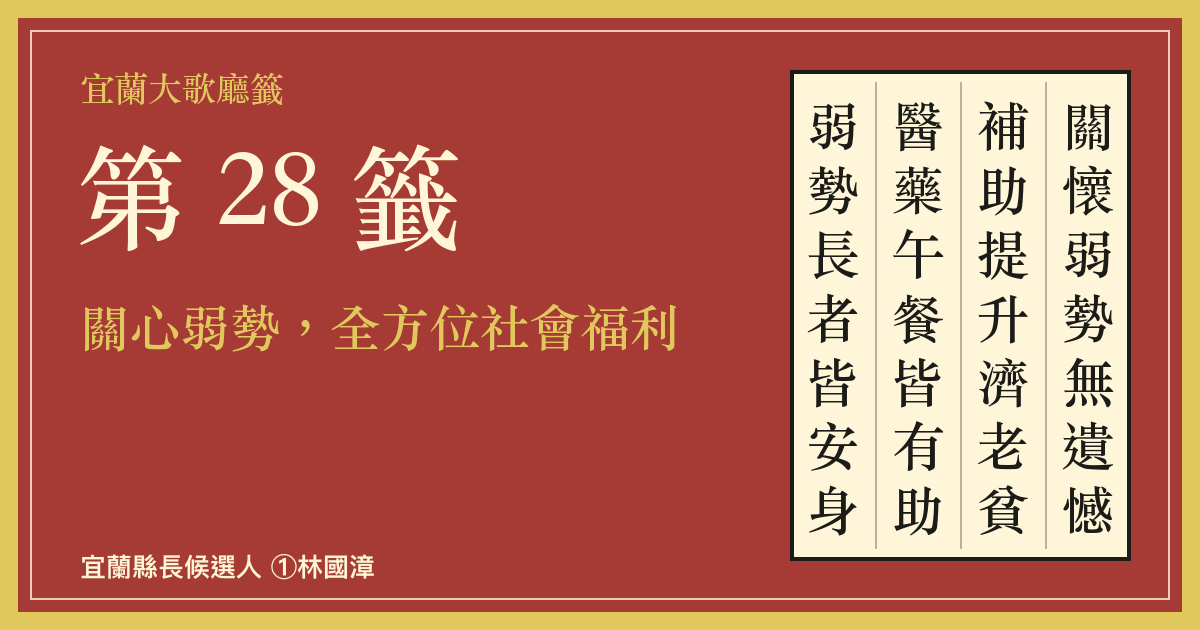
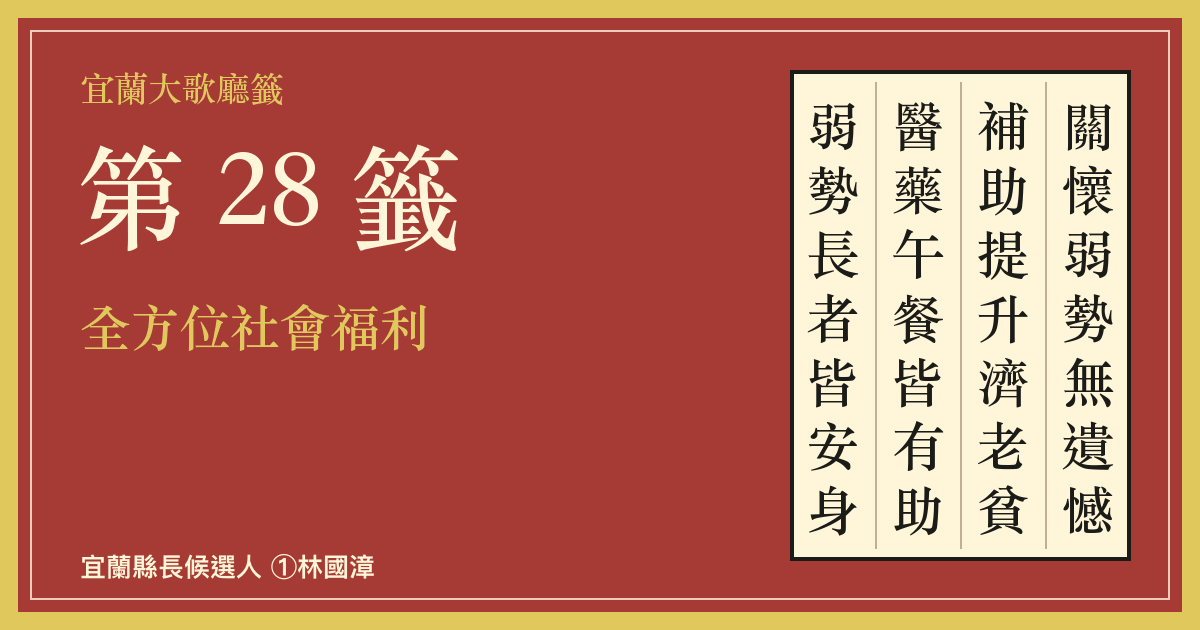
v198：點歌本再調整（刪創業專輯、觀光改名等）、短影音新增 2 支並更新觀看數

Changed region(s): [[0.0617, 0.4825, 0.5858, 0.573]]

diff --git a/index.html b/index.html
@@ -2192,7 +2192,7 @@ var POL=[
  b:["發行對象：縣內 65 歲以上長輩；每月匯入 1,000 點（全年 12,000 點），當月未用完可跨月累積、年度結算。", "三大用途：交通（維持縣內公車免費，並納入計程車、國道客運、台鐵折抵）、醫療保健（研議折抵醫療相關服務）、在地店家（縣府認證的合作店家）。", "創造宜蘭經濟內循環：照顧長輩的錢同時成為縣內店家的營業額。"],
  tw:'all',lt:['luodong'],rd:[],pl:[],src:[],
  src:[]},
-{id:'W02',c:'care',t:'關心弱勢，全方位社會福利',d:"2026/2/15 發布",
+{id:'W02',c:'care',t:'全方位社會福利',d:"2026/2/15 發布",
  s:'津貼升級、0–6 歲掛號費補助、帶狀疱疹疫苗，弱勢族群以及 55 歲以上原住民族健保全額免費。',
  b:["生育津貼每胎提高到 3 萬元（現行 2 萬）。", "補助 0–6 歲掛號費：一般門診 100 元、急診 200 元，每人每年最多 10 次。", "延續「呷飯免錢、讀書免錢」並提高品質：補助學校更新保溫設備，每校約 15 萬。", "帶狀疱疹疫苗：弱勢（低收、中低收、55 歲以上原住民）全額補助，設籍 65 歲以上長者補助 3,000 元，優先照顧慢性病等高風險族群。", "弱勢族群以及 55 歲以上原住民族健保全額免費。"],
  tw:'all',rd:[],pl:[],src:[],
@@ -2514,23 +2514,22 @@ function numSize(s,max,avail){var w=0;for(var i=0;i<s.length;i++)w+=s.charCodeAt
 
 var AUD=[
  {id:'a_baby',k:'age',n:'幼兒家庭（0–6 歲）',need:'孩子小時候常生病，掛號費一次次累積；0–2 歲公共托育只占同齡人口約 6%，公托候補名單常有兩位數；有 0–6 歲孩子的家庭，約 38% 最需要假日與夜間臨托。',pol:['W02','K02','K03']},
- {id:'a_student',k:'age',n:'國中小學生與家長',need:'偏鄉與無車家庭的上下學接送是難題。',pol:['K02','K03','G04','T04','C07']},
- {id:'a_youth',k:'age',n:'青年（約 18–39 歲）',need:'長期低薪、機會不足，青年人口向大台北外流；老屋比例高、購屋成家困難；創業資源分散。',pol:['K04','I01','I04','T04']},
- {id:'a_adult',k:'age',n:'壯年（約 40–64 歲）',need:'雪隧假日塞車、大眾運輸班次不足、停車位不足；薪資偏低、產業單一；極端降雨的淹水風險。',pol:['T01','T02','T04','T05','I05','I01','E02']},
+ {id:'a_student',k:'age',n:'國中小學生與家長',need:'偏鄉與無車家庭的上下學接送是難題。',pol:['K02','K03','G04','C07']},
+ {id:'a_youth',k:'age',n:'青年（約 18–39 歲）',need:'長期低薪、機會不足，青年人口向大台北外流；老屋比例高、購屋成家困難；創業資源分散。',pol:['K04','I01']},
+ {id:'a_adult',k:'age',n:'壯年（約 40–64 歲）',need:'雪隧假日塞車、大眾運輸班次不足、停車位不足；薪資偏低、產業單一；極端降雨的淹水風險。',pol:['I05','I01','E02']},
  {id:'a_senior',k:'age',n:'長者（65 歲以上）',need:'宜蘭已進入超高齡社會（65 歲以上超過兩成）；帶狀疱疹疫苗價格高。',pol:['W01','W02','C07','G04']},
  {id:'j_farmer',k:'job',n:'農民',need:'宜蘭稻作一年只收成一次，颱風來前常得搶收，稻穀品質下降還可能被折價；宜蘭在迎風面，天災常讓一年心血歸零。',pol:['A01','A02','E02','X13']},
  {id:'j_fisher',k:'job',n:'漁民',need:'漁民老化、老舊漁船難退場；漁港與養殖區設施需要升級；漁獲需要冷鏈與品牌才賣得出好價。',pol:['S01','S03','S04']},
  {id:'j_worker',k:'job',n:'勞工（含輪班、夜間）',need:'輪班、夜間、長工時的異常工作負荷容易引發疾病與職災；中高齡勞工需要職訓與再就業；基層薪資偏低。',pol:['I05']},
  {id:'j_teacher',k:'job',n:'教師與教保員',need:'行政與評鑑負擔重；學生突發情緒與校園安全需要標準流程；少子化下小校要轉型；教保員薪資約 3.5 萬、人手吃緊。',pol:['K03']},
- {id:'j_startup',k:'job',n:'創業者與青創',need:'創業資源分散、新型態商業模式（如社會企業）法規不明、青創商品缺乏品牌與穩定市場。',pol:['K04']},
- {id:'j_tour',k:'job',n:'旅宿、餐飲與觀光業',need:'旅客停留短、季節落差明顯；抵達後缺少交通接駁的「最後一哩路」；熱門地區假日塞車。',pol:['C01','C02','C08','S03','T02','T01','X13']},
- {id:'j_commuter',k:'job',n:'通勤族',need:'往返雙北的宜蘭通勤族要用兩張卡分別設定 TPASS；城際月票 1,800 元、縣內月票 750 元。',pol:['T04','T01','T02','T05','T07']},
+ {id:'j_tour',k:'job',n:'觀光',need:'旅客停留短、季節落差明顯；抵達後缺少交通接駁的「最後一哩路」；熱門地區假日塞車。',pol:['C01','C02','C08','S03','T02','T01','X13']},
+ {id:'j_commuter',k:'job',n:'通勤族',need:'往返雙北的宜蘭通勤族要用兩張卡分別設定 TPASS；城際月票 1,800 元、縣內月票 750 元。',pol:['T04','T01','T03','T02','T05','T07']},
  {id:'j_sports',k:'job',n:'運動員、教練與體育界',need:'多數學生缺少接觸多元運動的機會；雨天缺運動場域；選手與教練需要穩定的獎勵與培訓資源。',pol:['C07','S03']},
  {id:'j_culture',k:'job',n:'藝文與文化工作者',need:'文化場館多半只是展示、使用有限；節慶與歌仔戲等無形文化資產需要被保存傳承。',pol:['C03','C05']},
  {id:'j_indig',k:'job',n:'原住民族',need:'部落反映道路橋梁安全、治山防洪、農產運輸、高山農業灌溉；青年返鄉就業與長者醫療資源不足。',pol:['D01','W02']},
  {id:'j_hakka',k:'job',n:'客家族群',need:'客語（尤其詔安腔）師資與使用者逐漸流失。',pol:['C05']},
  {id:'j_newres',k:'job',n:'新住民',need:'需要進入決策、法律與財稅諮詢、子女助學與文化交流的支持。',pol:['N01']},
- {id:'j_women',k:'job',n:'女性與母親',need:'婦女調查中，最大的困擾是自身健康問題（41.6%）、薪資偏低（35.4%）；最需要免費婦女健檢（66.9%）與臨托服務。',pol:['K01','W02','I05']},
+ {id:'j_women',k:'job',n:'女性與母親',need:'婦女調查中，最大的困擾是自身健康問題（41.6%）、薪資偏低（35.4%）；最需要免費婦女健檢（66.9%）與臨托服務。',pol:['K01']},
  {id:'j_pet',k:'job',n:'毛孩飼主',need:'夜間獸醫量能不足，急診常得跑到台北。',pol:['K05']},
  {id:'j_shop',k:'job',n:'在地商家',need:'商家需要穩定客源；長輩的消費若留在縣內，才能拉動商圈與夜經濟。',pol:['W01','C01']}
 ];
@@ -2657,12 +2656,12 @@ function personaMatches(){
 }
 function townName(id){for(var i=0;i<TOWNS.length;i++)if(TOWNS[i].id===id)return TOWNS[i].n;return id}
 var AGRP=[['家庭與年齡',['a_baby','a_student','a_youth','a_adult','a_senior','j_pet']],
-  ['工作與通勤',['j_farmer','j_fisher','j_worker','j_teacher','j_startup','j_tour','j_shop','j_sports','j_culture','j_commuter']],
+  ['工作與通勤',['j_farmer','j_fisher','j_worker','j_teacher','j_tour','j_shop','j_sports','j_culture','j_commuter']],
   ['族群與性別',['j_indig','j_hakka','j_newres','j_women']]];
-var ASHORT={a_student:'學生與家長',j_startup:'創業與青創',j_tour:'旅宿餐飲觀光',j_sports:'運動與體育',j_culture:'藝文工作者',j_women:'女性'};
+var ASHORT={a_student:'學生與家長',j_tour:'觀光',j_sports:'運動與體育',j_culture:'藝文工作者',j_women:'女性'};
 var SBRK={'福山植物園':['福山','植物園'],'傳統藝術中心':['傳統藝術','中心'],'林業文化園區':['林業文化','園區'],'金岳部落、澳花瀑布、南澳古道':['金岳部落','澳花瀑布','南澳古道']};
 function sbHTML(s){if(SBRK[s])return SBRK[s].map(esc).join('<br>');var n=s.length;if(n<=4)return esc(s);var h=Math.ceil(n/2);return esc(s.slice(0,h))+'<br>'+esc(s.slice(h))}
-var BRK={'旅宿餐飲觀光':['旅宿','餐飲','觀光'],'教師與教保員':['教師與','教保員'],'創業與青創':['創業與','青創'],'運動與體育':['運動與','體育'],'藝文工作者':['藝文','工作者'],'學生與家長':['學生與','家長'],'幼兒家庭':['幼兒','家庭'],'在地商家':['在地','商家'],'毛孩飼主':['毛孩','飼主'],'原住民族':['原住','民族'],'客家族群':['客家','族群']};
+var BRK={'教師與教保員':['教師與','教保員'],'運動與體育':['運動與','體育'],'藝文工作者':['藝文','工作者'],'學生與家長':['學生與','家長'],'幼兒家庭':['幼兒','家庭'],'在地商家':['在地','商家'],'毛孩飼主':['毛孩','飼主'],'原住民族':['原住','民族'],'客家族群':['客家','族群']};
 function covName(n){var l=n.length;if(l<=3)return '<span class="nm v">'+esc(n)+'</span>';var b=BRK[n];if(!b){var f=l===4?2:3;b=[n.slice(0,f),n.slice(f)]}return '<span class="nm h'+(b.length>2?' h3':'')+'">'+b.map(esc).join('<br>')+'</span>'}
 function townCount(id){return POL.filter(function(p){return !p.bg&&p.tw&&p.tw.indexOf(id)>-1}).length}
 var BOOK=!/[?&]book=0/.test(location.search);
@@ -3139,7 +3138,7 @@ function bioView(){
 function openBio(){S.sel={type:'bio'};setHL();refresh();homeView();window.scrollTo&&window.scrollTo({top:0})}
 
 /* ================= videos ================= */
-var VID_AS='10/28';
+var VID_AS='11/6';
 var VG=[
  ['new','最新','最近發布的 8 支。'],
  ['hot','熱門','觀看次數最高的 10 支。'],
@@ -3157,16 +3156,18 @@ var VGC={'new':'#9ADB7A',hot:'#FF6B57',pol:'#4C8DFF',kai:'#FF9F43',gai:'#2EE6B6'
 var VGN={};VG.forEach(function(g){VGN[g[0]]=g[1]});
 /* [Facebook reel id, title, views at VID_AS, group, related policy ids]; newest first */
 var VID=[
- ['1587421089251376','《如果有國漳》包漢銘律師談縣府委員會經驗',16000,'friend',[]],
- ['1756824228879769','《還好有國漳》第三集：蘭馨婦幼中心創辦人黃淑鈴',15000,'friend',['K01','W02']],
+ ['2185916185660865','《如果有國漳》許文政談國中同學林國漳',21000,'friend',[]],
+ ['2347465906000867','《宜蘭的窗》直式版',19000,'about',['V01']],
+ ['1587421089251376','《如果有國漳》包漢銘律師談縣府委員會經驗',17000,'friend',[]],
+ ['1756824228879769','《還好有國漳》第三集：蘭馨婦幼中心創辦人黃淑鈴',16000,'friend',['K01','W02']],
  ['29241299898840184','新住民後援會成立大會',29000,'club',['N01']],
  ['2629310767527999','青年後援會成立大會',26000,'club',['K04']],
- ['887592124442047','「姐妹後援會」成立大會',4601,'club',['K01']],
+ ['887592124442047','「姐妹後援會」成立大會',46000,'club',['K01']],
  ['1871099793701636','社區大學師生後援會成立大會',16000,'club',[]],
  ['2300047957487260','《還好有國漳》第二集：法扶當事人洪一平',24000,'friend',[]],
  ['1641737824294468','《還好有國漳》社大學生黃鈺書律師',25000,'friend',[]],
  ['1082314381233370','冬山清溝夜市、宜蘭果菜批發市場：與大家相見歡',26000,'walk',[]],
-['1402119825325969','首支競選形象影片《宜蘭的窗》',80000,'about',['V01'],'h'],
+['1402119825325969','首支競選形象影片《宜蘭的窗》',82000,'about',['V01'],'h'],
  ['1402865411949340','中元普渡感恩月，祝大家平安順興',19000,'faith',[]],
  ['1553140946826715','完成宜蘭縣長候選人登記：11.28 一起贏回宜蘭的光榮',53000,'about',[]],
  ['1772911103741695','全民蓋「漳」：一起蓋漳宜蘭地圖',9138,'gai',[]],
@@ -3979,7 +3980,7 @@ function drawWallCard(){
   return cv;
 }
 function openWallCard(){openImg(drawWallCard(),'宜蘭大歌廳排行榜｜宜蘭大歌廳①次看全部',(SHARE_BASE?SHARE_BASE+SQ:location.href.split('#')[0]),'宜蘭大歌廳-排行榜.png')}
-var BUILD='11/6 第 197 版';
+var BUILD='11/6 第 198 版';
 $('#mego').onclick=function(){albClose();openPersona()};
 $('#mecard').onclick=function(){albClose();openCard()};
 $('#mecl').onclick=function(){albClose();PS.jobs={};PS.towns={};panel()};

diff --git a/s/f-W02/index.html b/s/f-W02/index.html
@@ -1,9 +1,9 @@
 <!doctype html>
 <html lang="zh-Hant"><head><meta charset="utf-8"><meta name="viewport" content="width=device-width,initial-scale=1">
 <title>我抽到第 28 籤｜宜蘭大歌廳①次看全部</title>
-<meta name="description" content="關懷弱勢無遺憾，補助提升濟老貧。醫藥午餐皆有助，弱勢長者皆安身。（關心弱勢，全方位社會福利）">
+<meta name="description" content="關懷弱勢無遺憾，補助提升濟老貧。醫藥午餐皆有助，弱勢長者皆安身。（全方位社會福利）">
 <meta property="og:type" content="website"><meta property="og:site_name" content="宜蘭大歌廳①次看全部">
-<meta property="og:title" content="我抽到第 28 籤｜宜蘭大歌廳①次看全部"><meta property="og:description" content="關懷弱勢無遺憾，補助提升濟老貧。醫藥午餐皆有助，弱勢長者皆安身。（關心弱勢，全方位社會福利）">
+<meta property="og:title" content="我抽到第 28 籤｜宜蘭大歌廳①次看全部"><meta property="og:description" content="關懷弱勢無遺憾，補助提升濟老貧。醫藥午餐皆有助，弱勢長者皆安身。（全方位社會福利）">
 <meta property="og:url" content="https://hanyingyilan.github.io/yilan-policy-map/s/f-W02/"><meta property="og:image" content="https://hanyingyilan.github.io/yilan-policy-map/og/f-W02.png?v=169">
 <meta property="og:image:width" content="1200"><meta property="og:image:height" content="630">
 <meta name="twitter:card" content="summary_large_image"><meta name="twitter:image" content="https://hanyingyilan.github.io/yilan-policy-map/og/f-W02.png?v=169">
